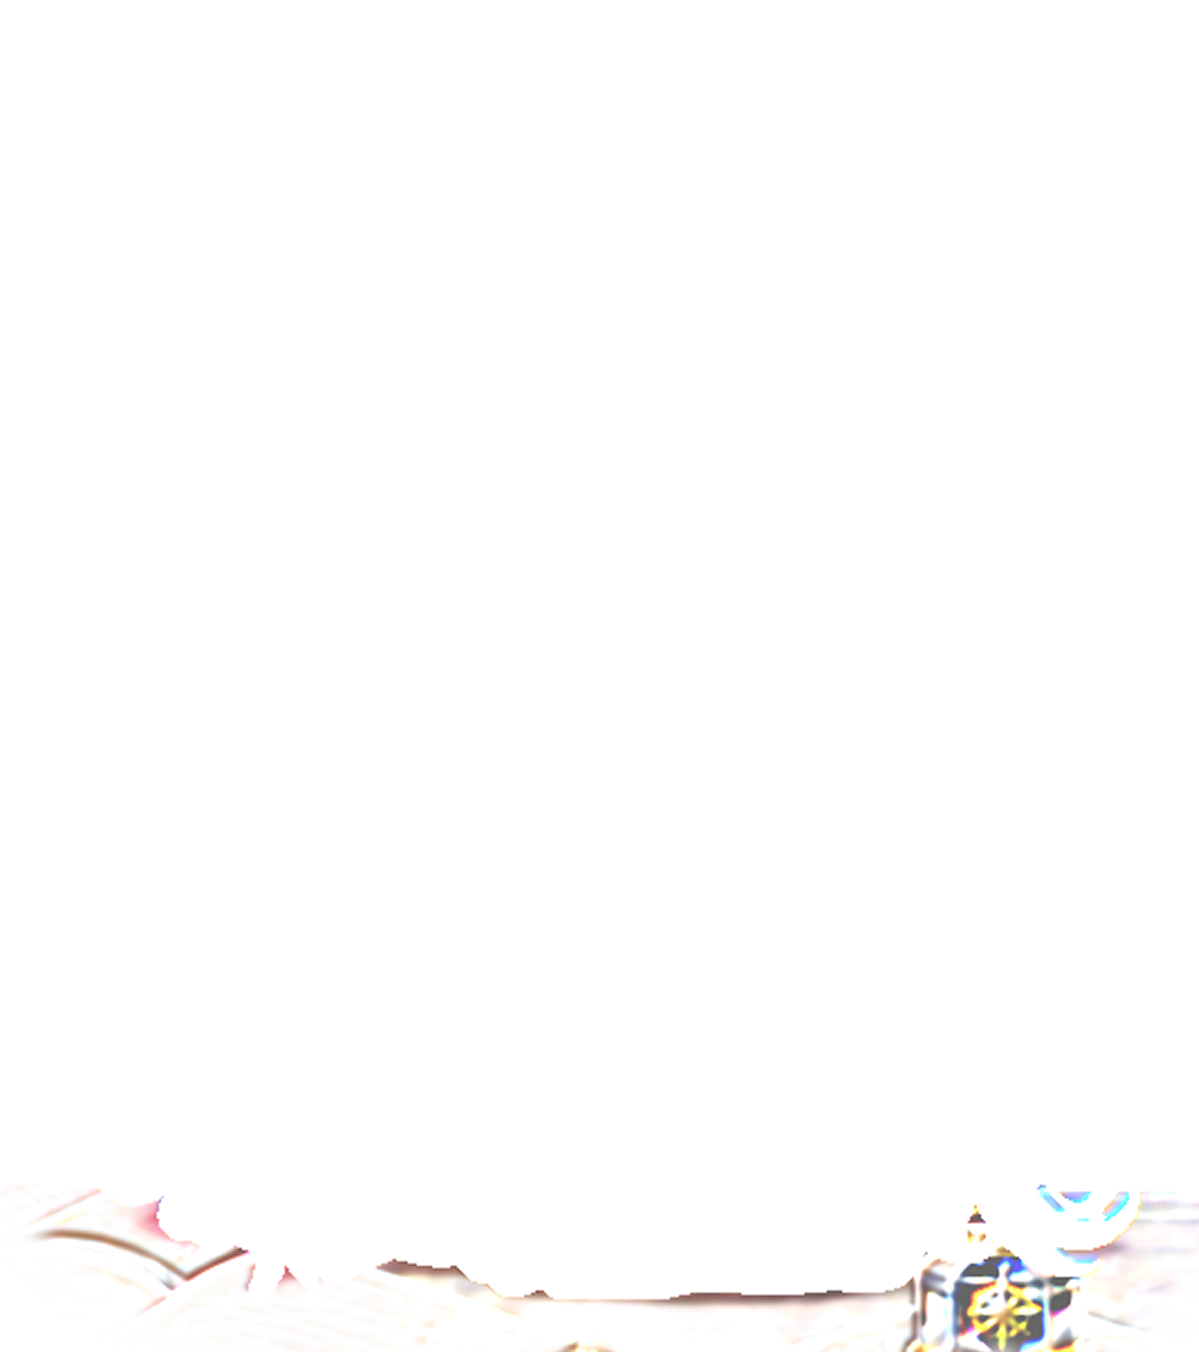
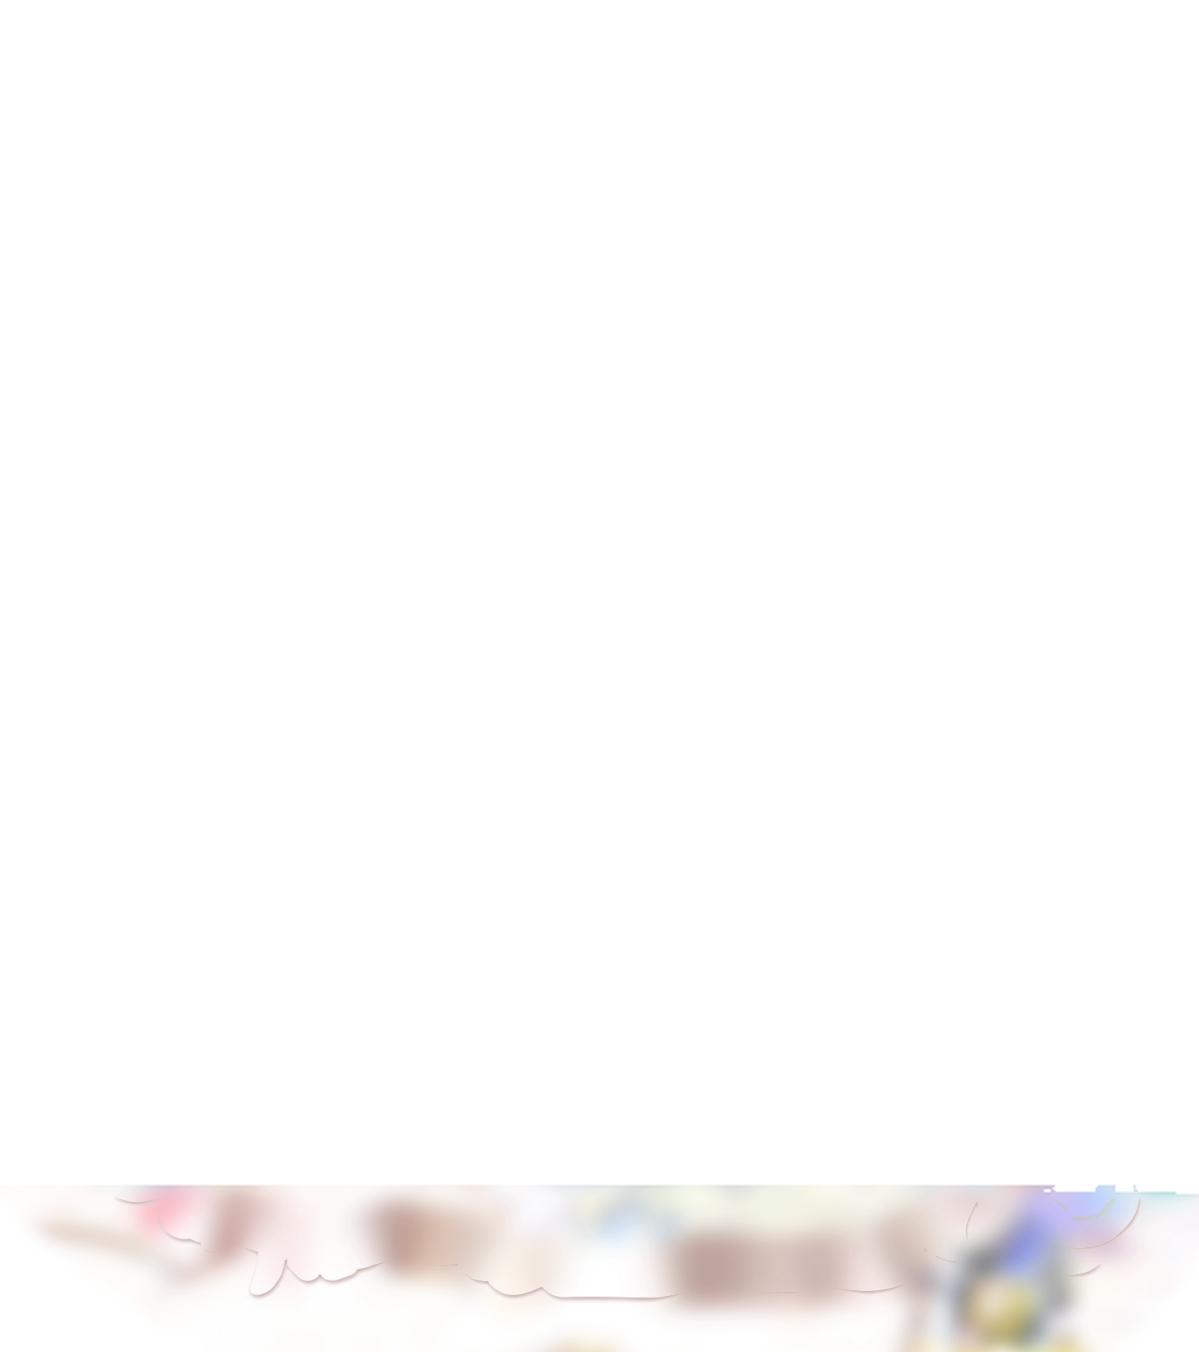
GPT 阴影接入修正：贴边填充、大面积阴影平滑、贴边窄阴影按高清轮廓生成

diff --git a/docs/修改记录.md b/docs/修改记录.md
@@ -209,6 +209,13 @@ osascript -e 'quit app "DeepSeek Harness"' && open -a "DeepSeek Harness"
 
 ## 五、版本记录
 
+### 2026-10-04 · GPT 阴影接入修正：去掉袖子下沿的亮线和斑驳过渡
+
+- 备份：`backup/阴影交接线修复前-20261004-113136`。
+- 用户反馈 1：袖子下沿和桌面阴影之间有一道明显的交接线。原因：人物轮廓附近 GPT 和高清图对不严（1–4px），又排除了贴边 1px，阴影离袖子有一段距离才开始，露出一道没压暗的亮边；手和袖口内侧也有浅色光晕。修正：人物轮廓内外 4px 的比值不用，用附近可靠的值填过去（`fill_from`，归一化高斯卷积），阴影一直接到人物下面。
+- 用户反馈 2：袖口下方阴影过渡不均匀（斑驳）。原因：GPT 重画木纹的细节差被当成了阴影。修正：GPT 的大面积阴影再模糊 5px，只保留形状和颜色；紧贴人物的那条窄阴影改为按高清轮廓生成（桌沿以下轮廓偏移 (1,2)、模糊 2.5px），颜色用固定的 `CONTACT_TINT = (0.80, 0.70, 0.68)`（取自 GPT 手肘下的接触阴影，四个表情一致），两者取较深的一个。
+- 验证：build + verify 72/72，包体约 7.3 MB；对比图和应用截图确认袖子下沿无亮线、阴影平滑。截图 `/Volumes/LQ1000/陪伴栏-阴影平滑.png`（本机）。
+
 ### 2026-10-04 · 第二步完成：接触阴影取自 GPT（round18），搬到高清图层上
 
 - 备份：`backup/接入GPT阴影前-20261004-112156`。
